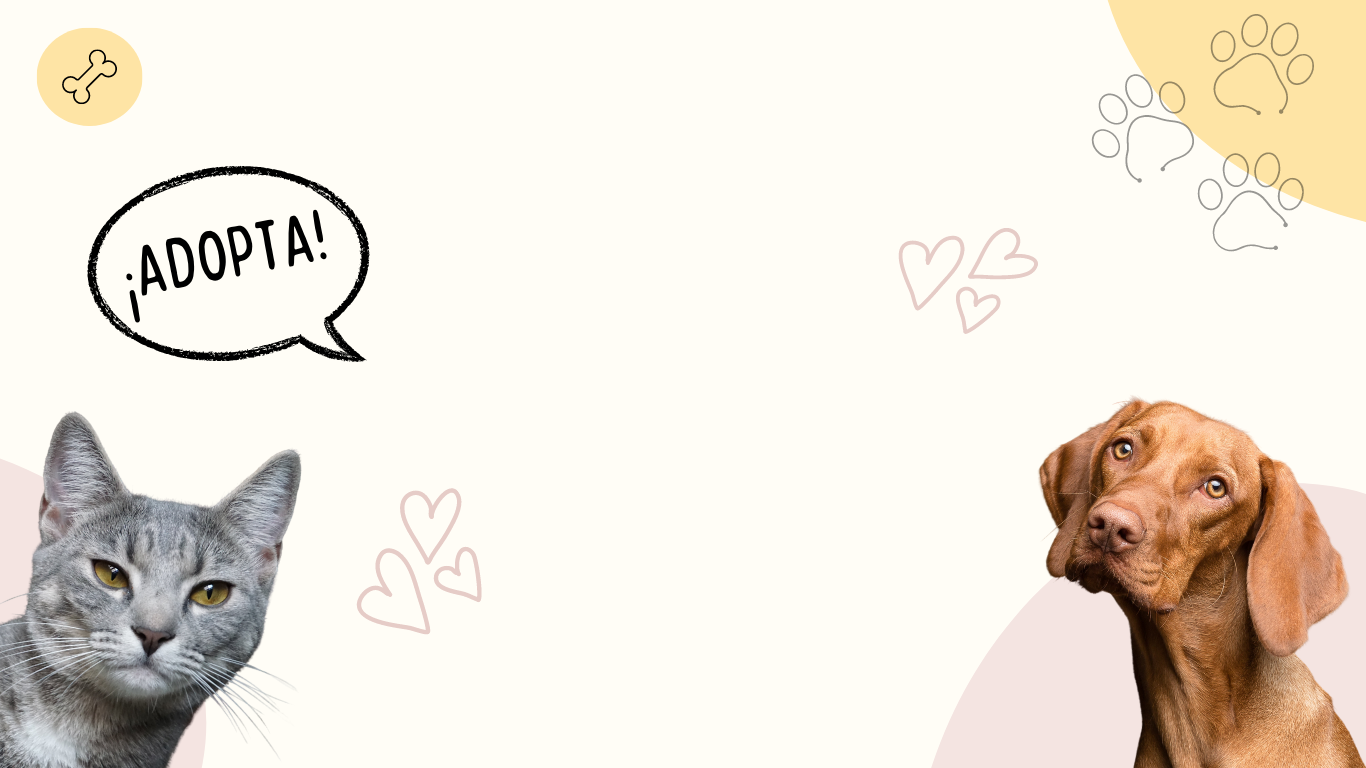
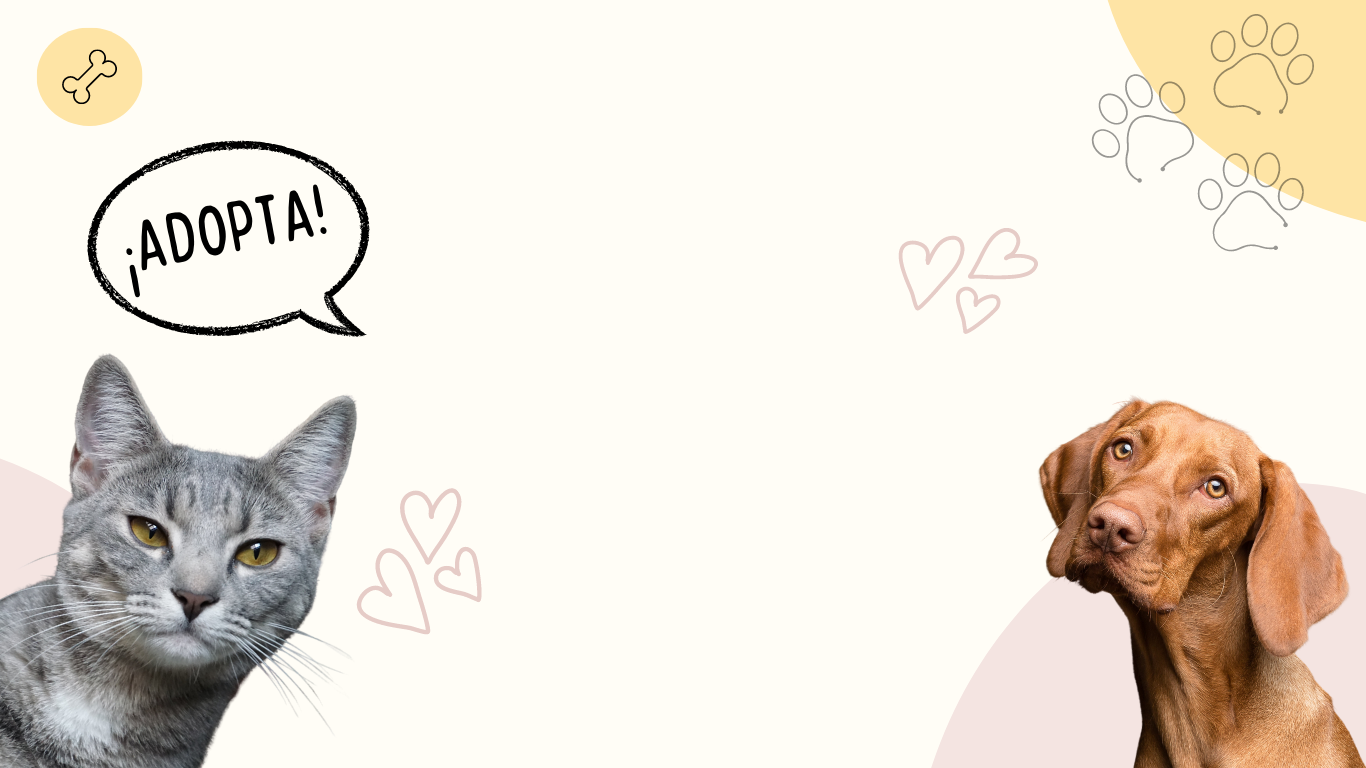
cambios en estilos View/DarAdopt

Changed region(s): [[0.0, 0.4688, 0.2767, 1.0], [0.0615, 0.1562, 0.2767, 0.4688]]

diff --git a/Client/src/Views/DarAdopt/DarAdopt.module.css b/Client/src/Views/DarAdopt/DarAdopt.module.css
@@ -1,7 +1,7 @@
 .container {
     background: url("../../Assets/Backgrounds/BackgroundInicio.png");
     background-size: cover;
-    height: 110vh; /* Establecer la altura para que ocupe toda la pantalla */
+    height: 100%; /* Establecer la altura para que ocupe toda la pantalla */
     display: flex;
     flex-direction: column;
   }
